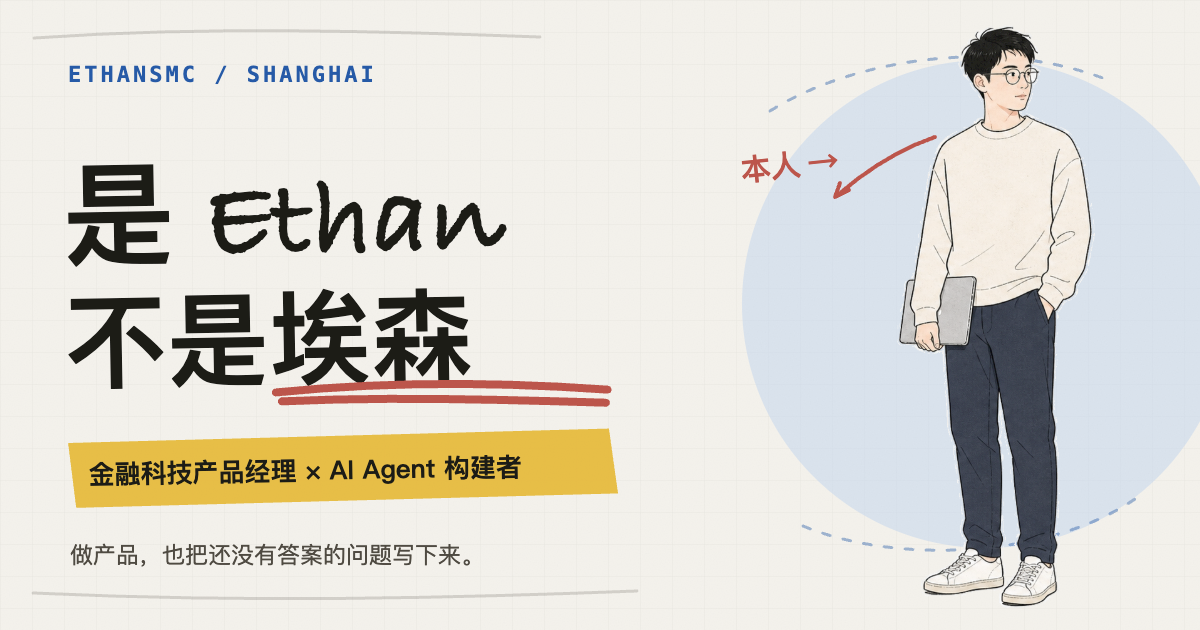
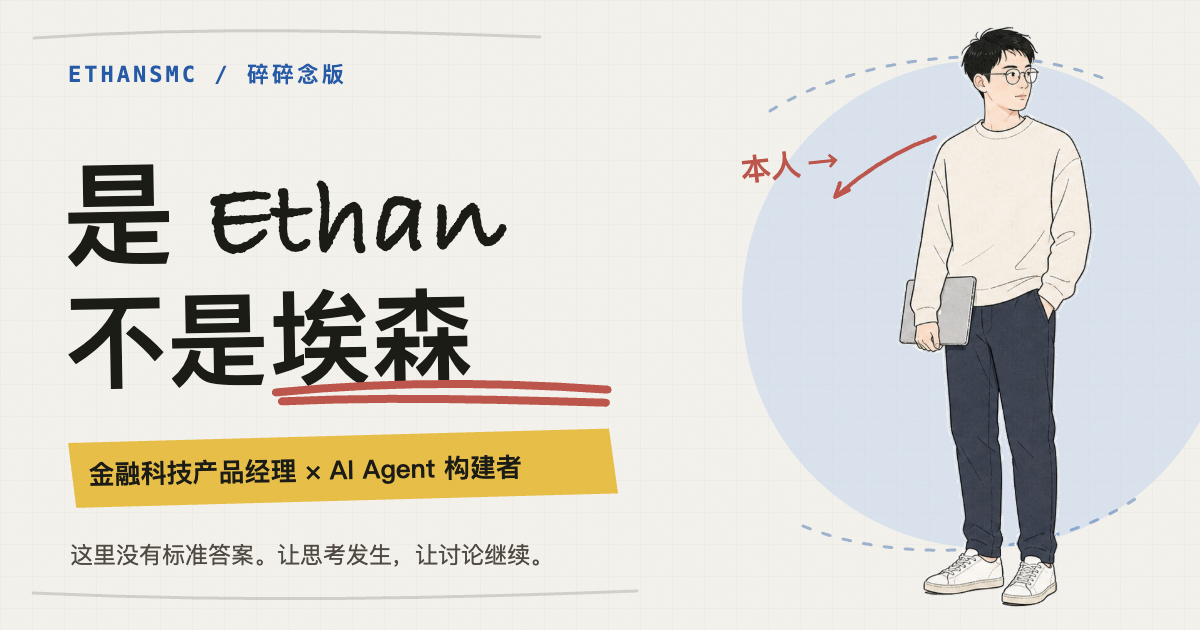
refine homepage voice and share copy

Changed region(s): [[0.0617, 0.8444, 0.4625, 0.9048], [0.185, 0.0905, 0.3083, 0.1508]]

diff --git a/index.html b/index.html
@@ -6,13 +6,13 @@
     <meta name="theme-color" content="#f4f2ec" />
     <meta
       name="description"
-      content="这里住着 Ethan 的手绘分身：白天做金融科技产品，晚上折腾 AI Agent，顺手记下那些还没有答案的问题。"
+      content="这里没有标准答案。让思考发生，让讨论继续。"
     />
-    <title>是 Ethan 不是埃森｜个人网站</title>
+    <title>是 Ethan，不是埃森｜碎碎念版</title>
     <link rel="canonical" href="https://ethansmc-personal-page.vercel.app/" />
     <meta property="og:type" content="website" />
-    <meta property="og:title" content="是 Ethan 不是埃森｜个人网站" />
-    <meta property="og:description" content="这里住着 Ethan 的手绘分身：白天做金融科技产品，晚上折腾 AI Agent，顺手记下那些还没有答案的问题。" />
+    <meta property="og:title" content="是 Ethan，不是埃森｜碎碎念版" />
+    <meta property="og:description" content="这里没有标准答案。让思考发生，让讨论继续。" />
     <meta property="og:url" content="https://ethansmc-personal-page.vercel.app/" />
     <meta property="og:site_name" content="申名翀 Ethan" />
     <meta property="og:locale" content="zh_CN" />
@@ -22,12 +22,12 @@
     <meta property="og:image:width" content="1200" />
     <meta property="og:image:height" content="630" />
     <meta property="og:image:type" content="image/png" />
-    <meta property="og:image:alt" content="手绘数字 Ethan 与文字：是 Ethan，不是埃森" />
+    <meta property="og:image:alt" content="手绘数字 Ethan 与文字：是 Ethan，不是埃森｜碎碎念版" />
     <meta name="twitter:card" content="summary_large_image" />
-    <meta name="twitter:title" content="是 Ethan 不是埃森｜个人网站" />
-    <meta name="twitter:description" content="这里住着 Ethan 的手绘分身：白天做金融科技产品，晚上折腾 AI Agent，顺手记下那些还没有答案的问题。" />
+    <meta name="twitter:title" content="是 Ethan，不是埃森｜碎碎念版" />
+    <meta name="twitter:description" content="这里没有标准答案。让思考发生，让讨论继续。" />
     <meta name="twitter:image" content="https://ethansmc-personal-page.vercel.app/assets/share-card-home.png" />
-    <meta name="twitter:image:alt" content="手绘数字 Ethan 与文字：是 Ethan，不是埃森" />
+    <meta name="twitter:image:alt" content="手绘数字 Ethan 与文字：是 Ethan，不是埃森｜碎碎念版" />
     <link rel="icon" href="assets/favicon.svg" />
     <link rel="stylesheet" href="styles.css" />
     <link rel="stylesheet" href="blog.css" />
@@ -40,7 +40,7 @@
         "url": "https://ethansmc-personal-page.vercel.app/",
         "image": "https://ethansmc-personal-page.vercel.app/assets/digital-ethan/digital-ethan-main-cutout.png",
         "jobTitle": "金融科技产品经理",
-        "description": "这里住着 Ethan 的手绘分身：白天做金融科技产品，晚上折腾 AI Agent，顺手记下那些还没有答案的问题。",
+        "description": "这里没有标准答案。让思考发生，让讨论继续。",
         "email": "mailto:qq986399523@gmail.com",
         "sameAs": ["https://github.com/EthanSMC"]
       }

diff --git a/i18n.js b/i18n.js
@@ -5,8 +5,8 @@ const IP_LOCALE_KEY = "ethansmc.ip-locale";
 
 const messages = {
   zh: {
-    "meta.home.title": "是 Ethan 不是埃森｜个人网站",
-    "meta.home.description": "这里住着 Ethan 的手绘分身：白天做金融科技产品，晚上折腾 AI Agent，顺手记下那些还没有答案的问题。",
+    "meta.home.title": "是 Ethan，不是埃森｜碎碎念版",
+    "meta.home.description": "这里没有标准答案。让思考发生，让讨论继续。",
     "meta.blog.title": "写作｜申名翀 Ethan",
     "meta.blog.description": "产品现场、AI 实验和一些暂时没有答案的问题——趁它们还热，先写下来。",
     "meta.writingBy": "Ethan 的写作",
@@ -157,8 +157,8 @@ const messages = {
     "error.back": "返回首页",
   },
   ja: {
-    "meta.home.title": "Ethanです、エッセンではありません｜ポートフォリオ",
-    "meta.home.description": "ここはEthanの手描きの分身が住む場所。昼はフィンテック製品をつくり、夜はAIエージェントを試しながら、まだ答えのない問いを書き留めています。",
+    "meta.home.title": "Ethanです、エッセンではありません｜ひとりごと編",
+    "meta.home.description": "ここに正解はありません。考えるきっかけをつくり、対話を続けよう。",
     "meta.blog.title": "文章｜申名翀 Ethan",
     "meta.blog.description": "プロダクトの現場、AIの実験、まだ答えのない問い。熱が冷めないうちに書き留めます。",
     "meta.writingBy": "Ethan の文章",
@@ -309,8 +309,8 @@ const messages = {
     "error.back": "ホームへ戻る",
   },
   en: {
-    "meta.home.title": "It’s Ethan, Not Eason | Personal site",
-    "meta.home.description": "Meet Ethan’s hand-drawn alter ego: building fintech products by day, tinkering with AI agents after hours, and writing down questions that still have no neat answers.",
+    "meta.home.title": "It’s Ethan, Not Eason | Ramblings Edition",
+    "meta.home.description": "There are no standard answers here. Let ideas take shape, and keep the conversation going.",
     "meta.blog.title": "Writing | Ethan Shen",
     "meta.blog.description": "Field notes from product work, AI experiments, and questions without neat answers—written down while they’re still warm.",
     "meta.writingBy": "Writing by Ethan",

diff --git a/_data/site.js b/_data/site.js
@@ -2,8 +2,8 @@ module.exports = function () {
   const url = (process.env.SITE_URL || "https://ethansmc-personal-page.vercel.app").replace(/\/$/, "");
   return {
     name: "申名翀 Ethan",
-    title: "申名翀 Ethan | Personal Site",
-    description: "这里住着 Ethan 的手绘分身：白天做金融科技产品，晚上折腾 AI Agent，顺手记下那些还没有答案的问题。",
+    title: "是 Ethan，不是埃森｜碎碎念版",
+    description: "这里没有标准答案。让思考发生，让讨论继续。",
     language: "zh-CN",
     url,
     author: "申名翀 Ethan",
